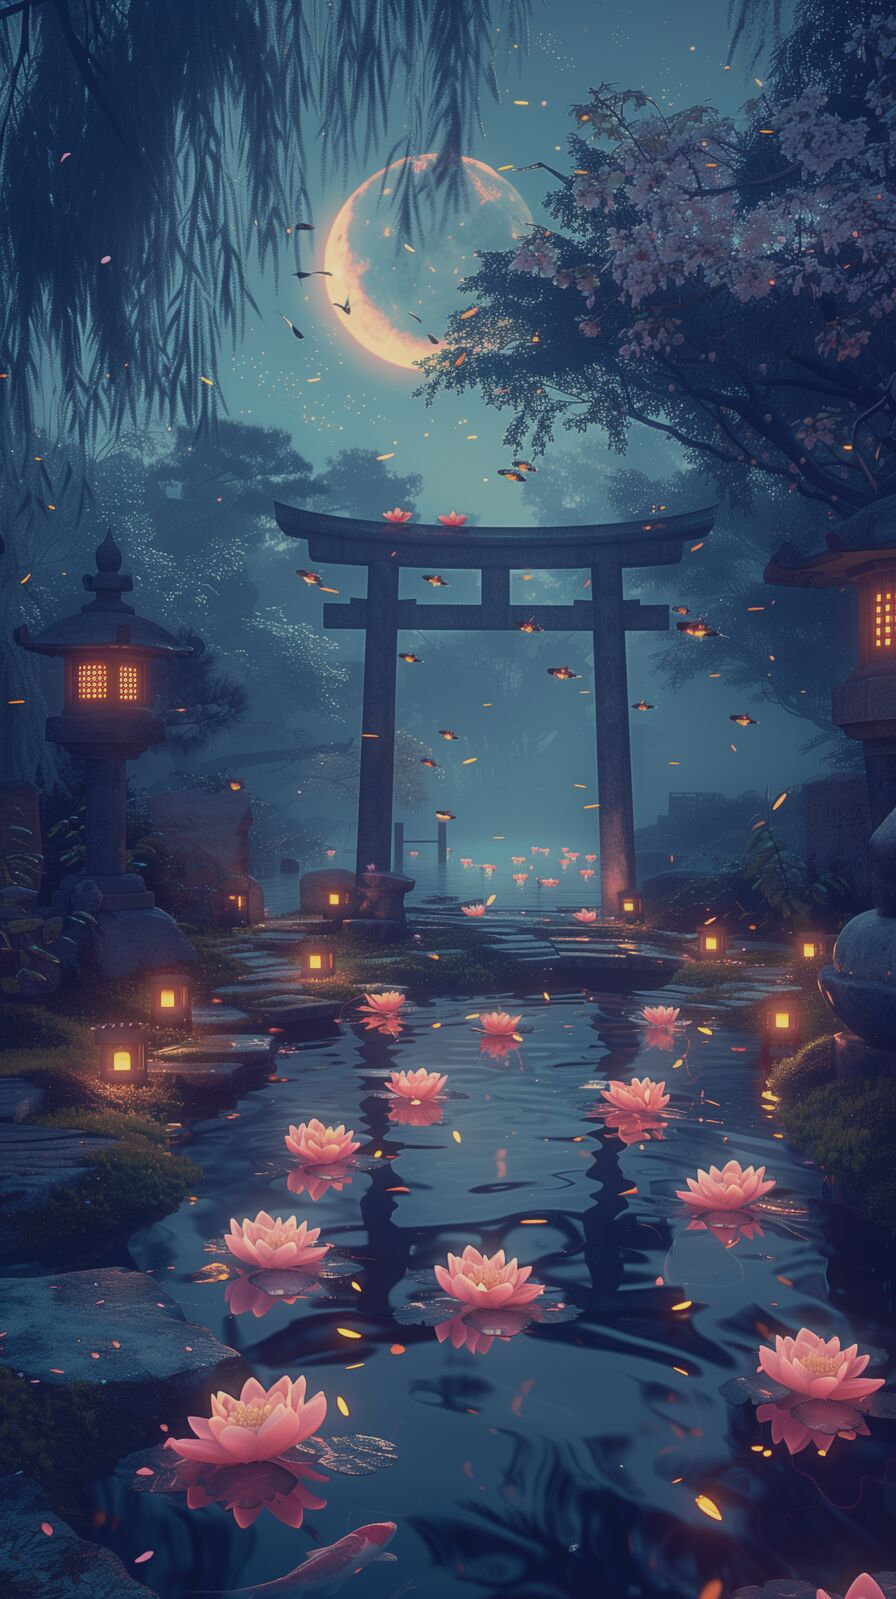
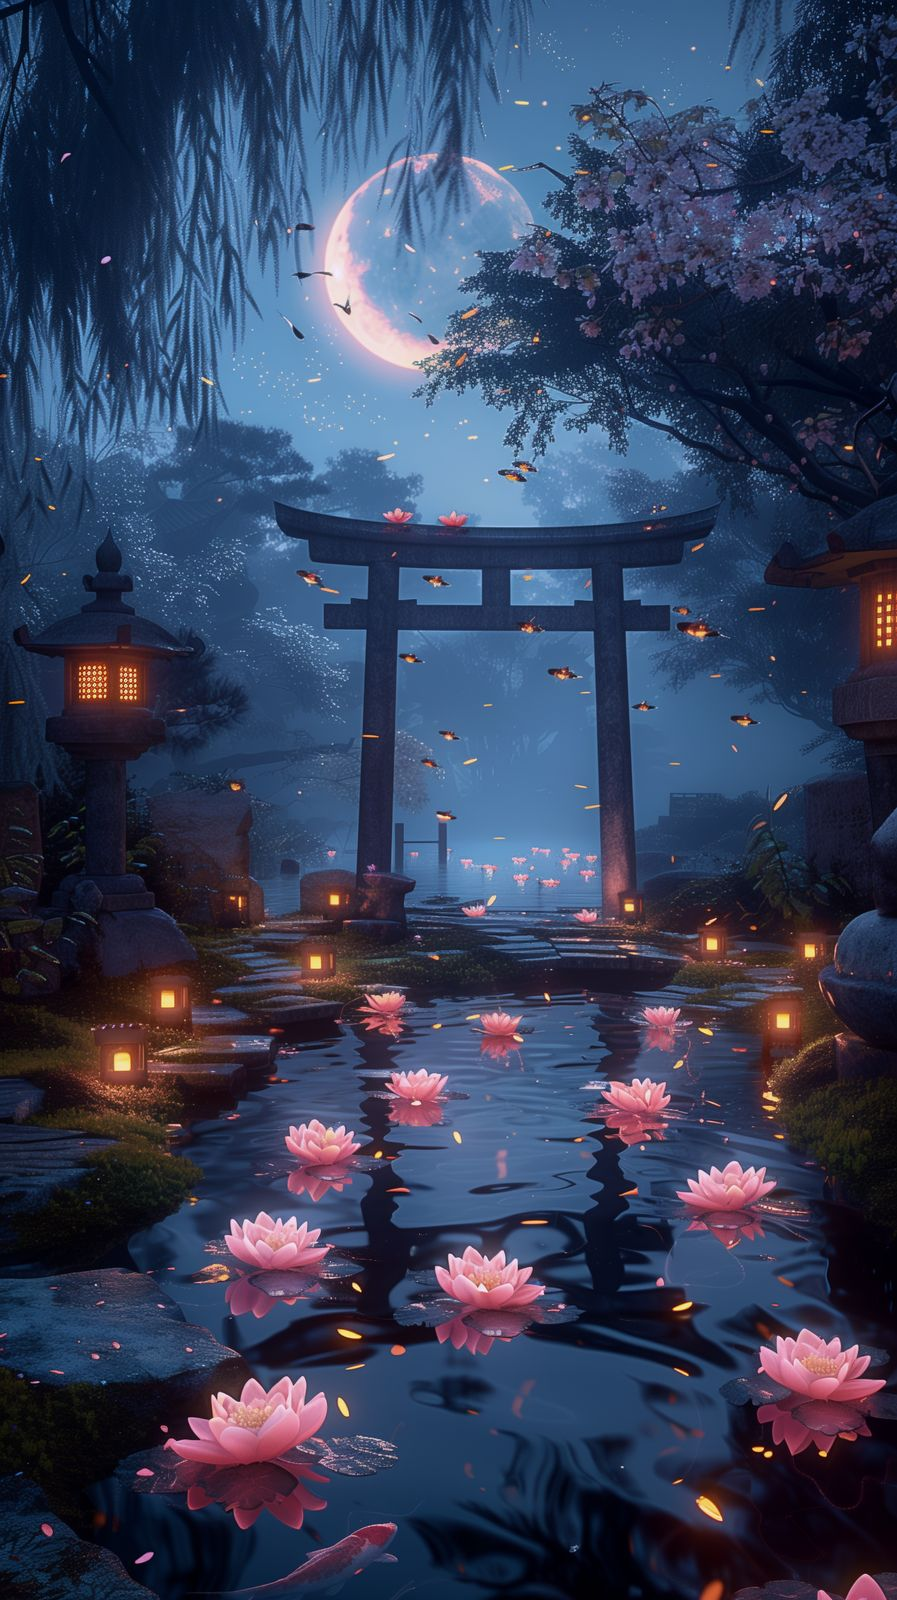
feat(ceremony): per-channel ratio-match bg to bg_game hue, brighten CSS filter
Previous grade landed in the right luminance band but a greenish-teal
hue: mean RGB (59.4, 72.0, 96.1), B/R 1.62. bg_game's mean is (54.0,
64.4, 91.3), B/R 1.69 — a notably pure blue indigo. Re-grades the source
art with a per-channel ratio that locks BOTH hue and luminance to the
game scene.

Grade pipeline (PIL/numpy):
  src_mean = (56.83, 69.43, 86.77)        # ~/Downloads/0_0.png
  dst_mean = (53.96, 64.38, 91.34)        # public/bg_game.jpg
  k = dst_mean / src_mean                  # = (0.9494, 0.9272, 1.0527)
  out[c] = clip(src[c] * k[c], 0, 255)    # in sRGB-encoded space
  resize longest-edge → 1600px (897x1600), JPEG q80

Result:
  output mean = (53.49, 63.86, 90.93)
  delta vs bg_game = (-0.47, -0.52, -0.41)   # well within ±2 spec
  size = 228 KB (down from 655 KB)
  B/R = 1.70  (vs bg_game's 1.69)

Lotus pinks: masked-pink saturation only dropped 2% (0.451 → 0.442) —
no selective rescue needed; the lotuses still read as warm magenta
against the deep blue water.

CSS filter:
  saturate(1.18) brightness(0.78) contrast(1.1)
→ saturate(1.18) brightness(0.90) contrast(1.1)

The 0.78 brightness was compensating for a source that was too bright
AND too cyan; now that the asset is hue/luminance-matched to bg_game at
the asset layer, the CSS only needs a light final knock-down so the
indigo + lantern accents read at their intended depth (instead of being
double-darkened to a muddy near-black).

Re-rendered at 390x844 across intro / mint-ready / success. Same blue
[…]

diff --git a/src/components/MintCeremony.module.css b/src/components/MintCeremony.module.css
@@ -44,9 +44,11 @@
   background-size: cover;
   background-position: center;
   background-repeat: no-repeat;
-  /* 3.5f: dimmed further (0.88 → 0.78) to match the in-game scene tone,
-   * with more saturation + contrast to keep the art from going muddy. */
-  filter: saturate(1.18) brightness(0.78) contrast(1.1);
+  /* 3.5g: bg has been per-channel ratio-matched to bg_game's mean RGB
+   * at the asset level (≈54/64/91), so the CSS no longer needs the
+   * aggressive 0.78 darken. Bumped to 0.90 to remove the double-darken
+   * and let the indigo + lantern accents read at their intended depth. */
+  filter: saturate(1.18) brightness(0.90) contrast(1.1);
 }
 .bgOverlay {
   position: absolute;